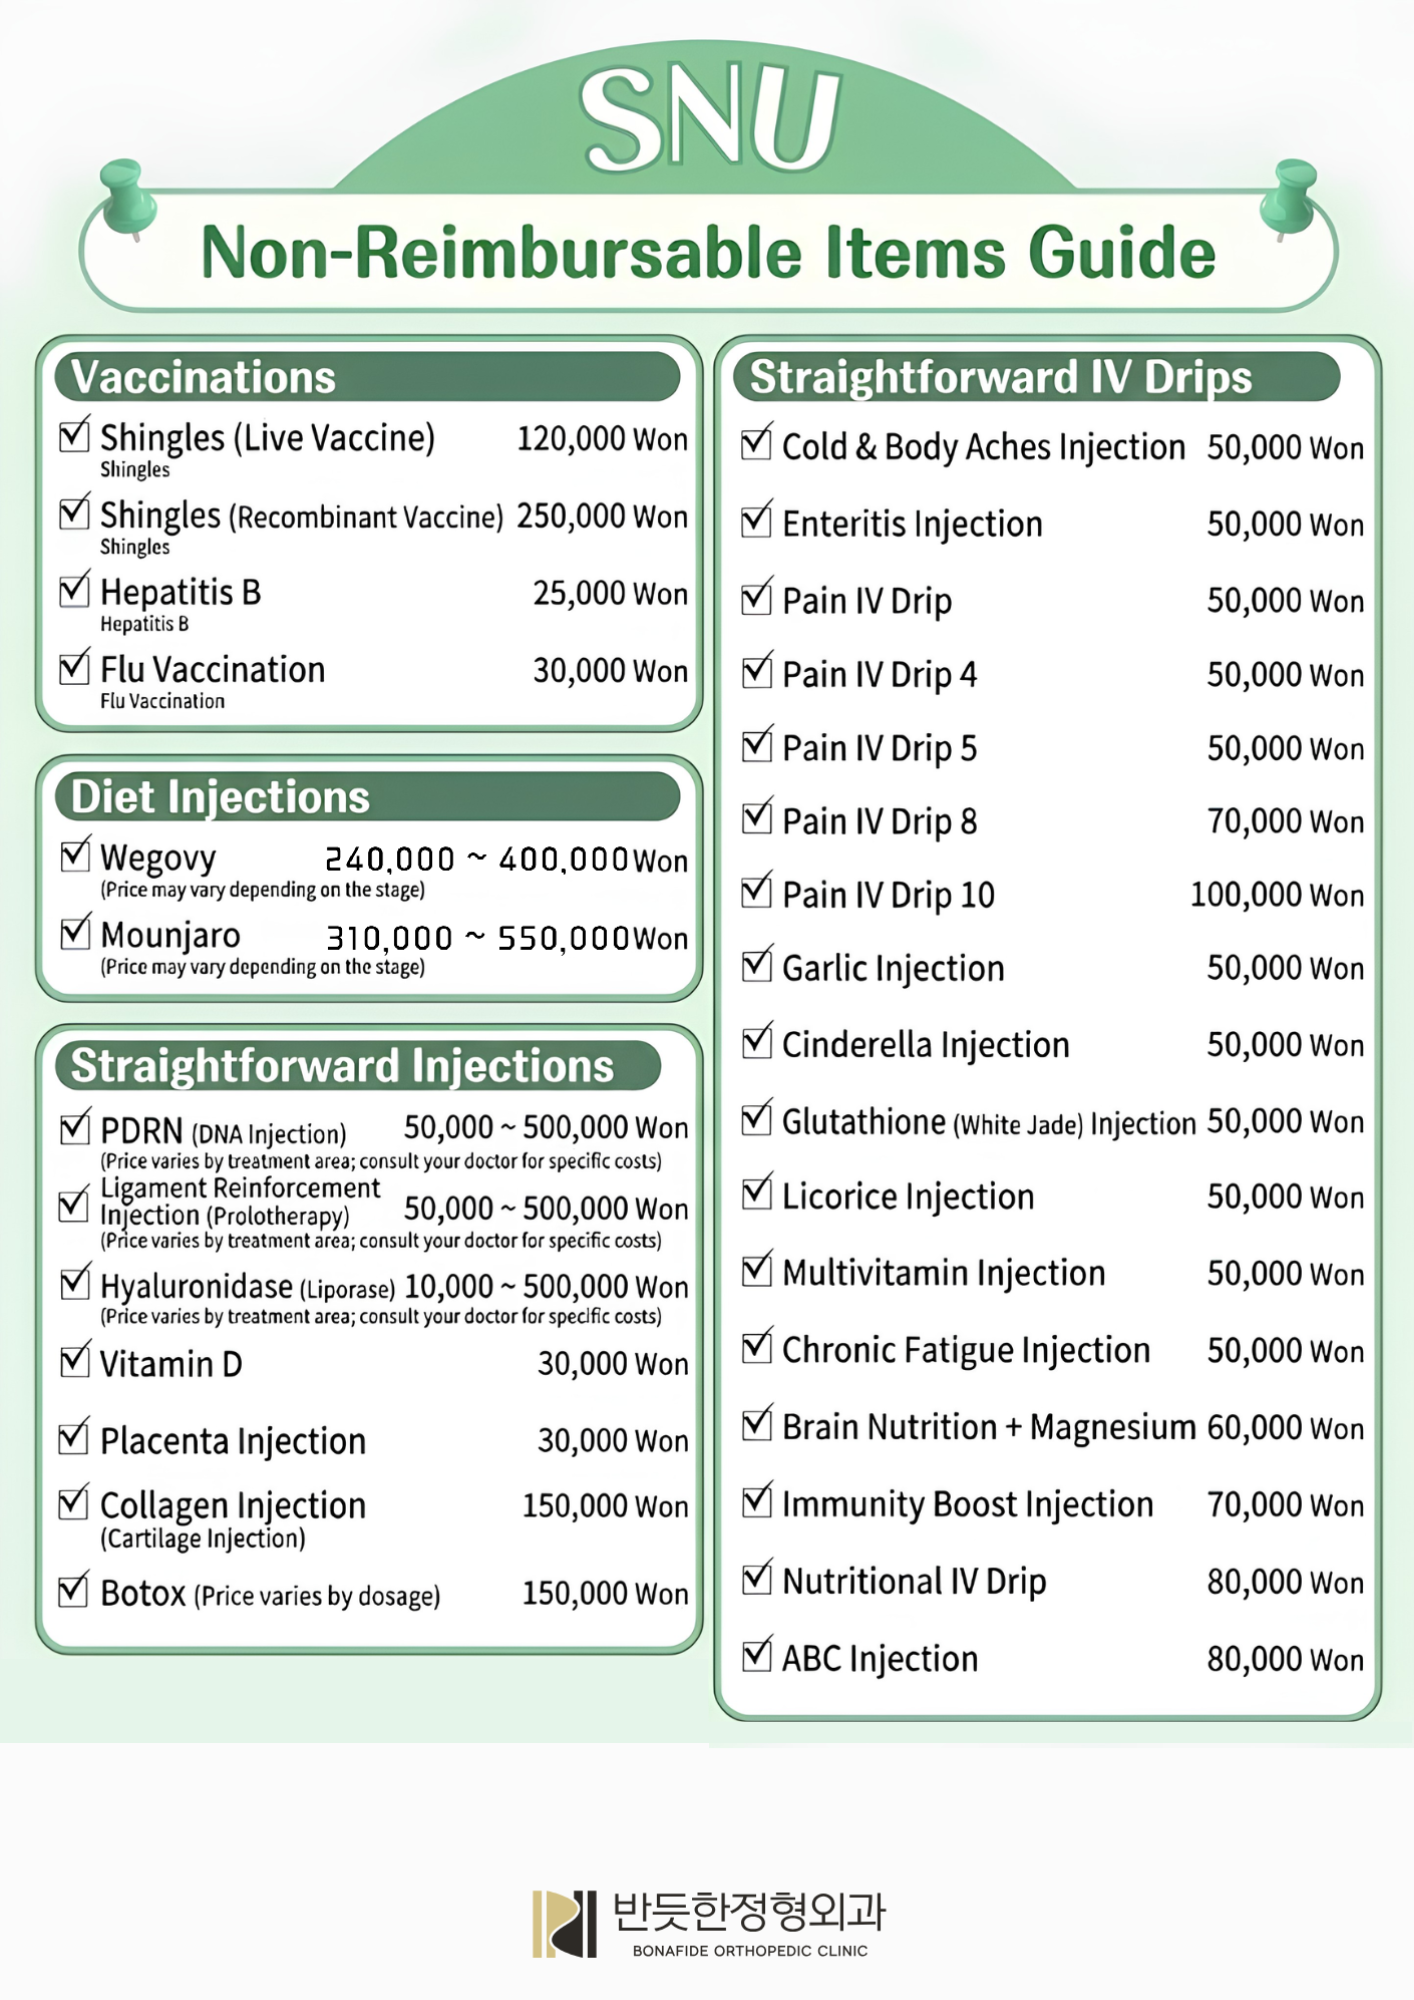
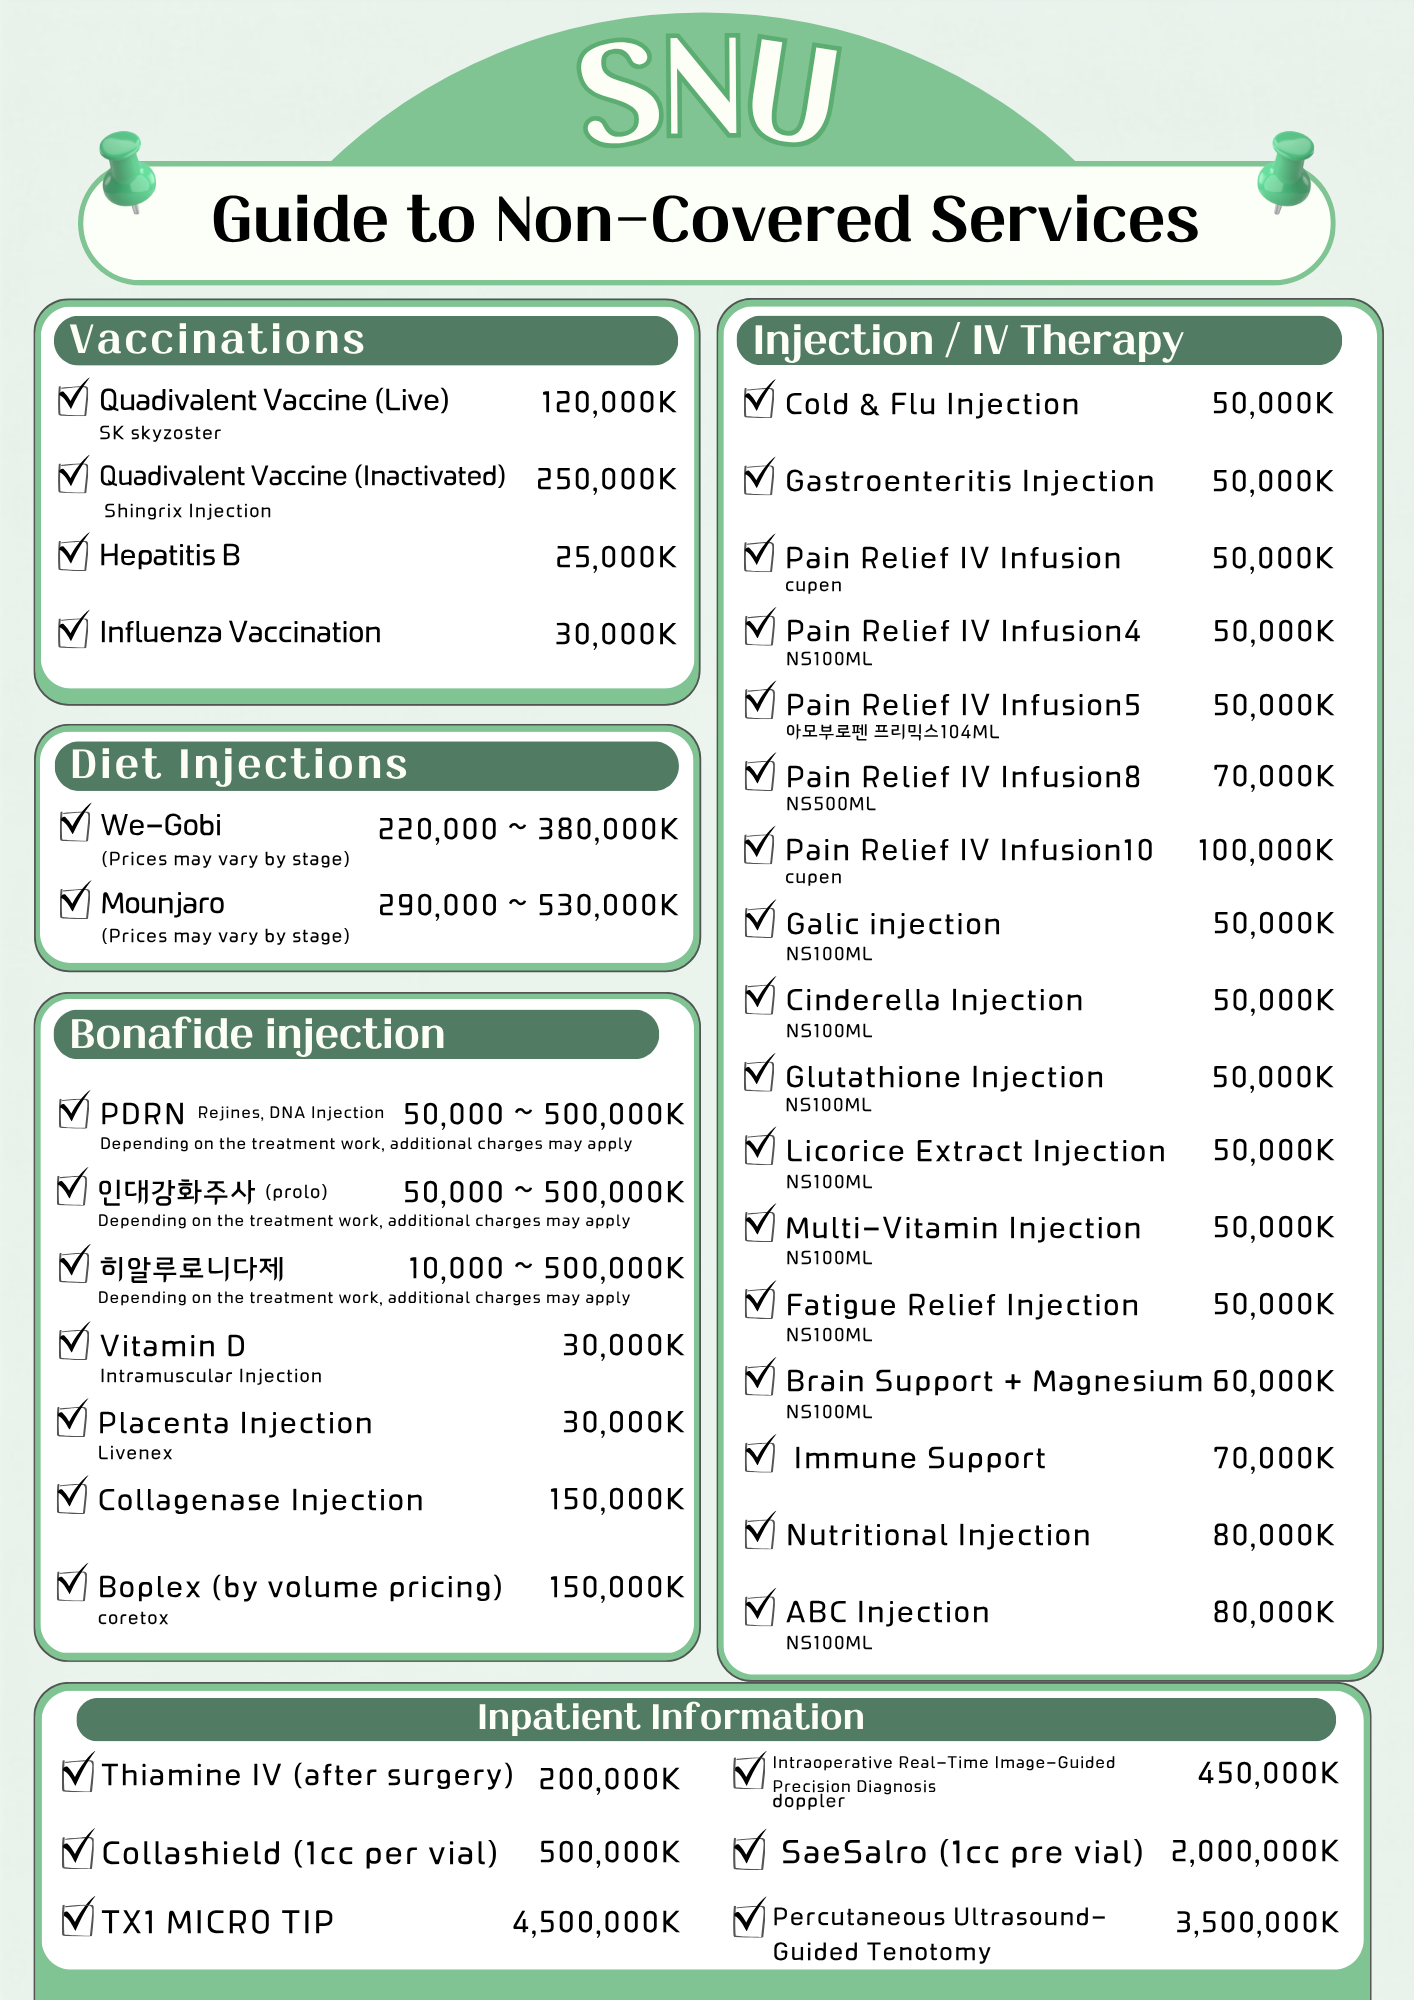
fix: 서울대입구점 비급여항목안내 (2) 영문판 갱신
한글판과 금액을 맞췄다.
  Wegovy    240,000~400,000 -> 220,000~380,000
  Mounjaro  310,000~550,000 -> 290,000~530,000
  Inpatient Information 6개 항목 신설
한글판 전 항목과 대조했고 금액 불일치는 없다.

다만 영문 표기에 문제가 남아 있다(이미지라 코드로 못 고침, 재제작 필요).
- 모든 금액 뒤 "K": 120,000K 는 1억 2천만으로 읽힌다. Won 또는 KRW 여야 한다.
- Collagenase Injection: 한글은 콜라겐주사(연골주사). Collagenase 는 콜라겐을
  분해하는 다른 약이다. Collagen Injection (Cartilage Injection) 이어야 한다.
- Boplex -> Botox, We-Gobi -> Wegovy, Galic -> Garlic
- Quadivalent Vaccine (Live/Inactivated): 대상포진 백신이므로
  Shingles (Live/Recombinant) 여야 한다.
- 인대강화주사·히알루로니다제·아모부로펜 프리믹스104ML 미번역

BANNER_VER 20260914 -> 20260914b.

diff --git a/js/i18n.js b/js/i18n.js
@@ -5,7 +5,7 @@
    ───────────────────────────────────────────── */
 
 /* 배너 캐시 버전: 배너 이미지를 같은 파일명으로 교체할 때마다 이 값을 올린다. */
-const BANNER_VER = '20260914';
+const BANNER_VER = '20260914b';
 
 const translationMap = {
   ko: {
